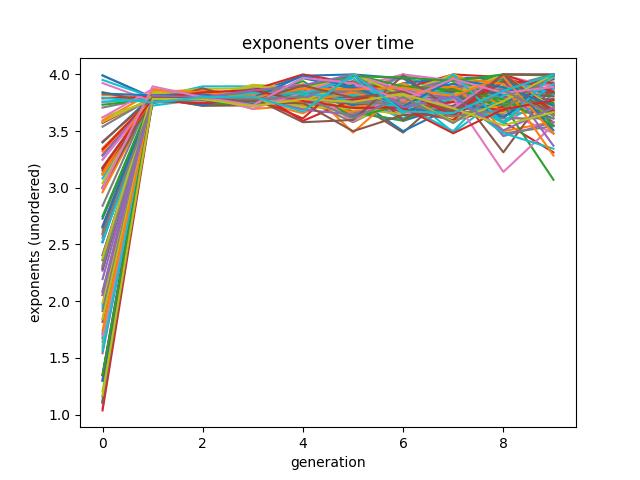
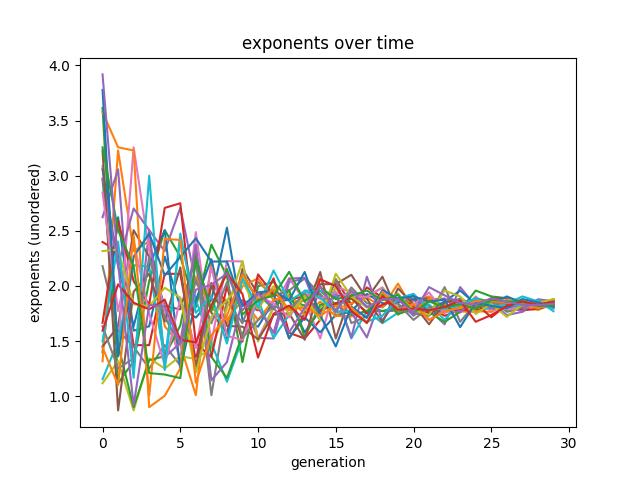
ran genetic exponent experiment for 30 generations

diff --git a/poker_game/genetic_expector_training.py b/poker_game/genetic_expector_training.py
@@ -2,28 +2,44 @@ from table import table
 from players import expector
 import matplotlib.pyplot as plt
 import numpy as np
+import time
+import datetime
+import os
 
 num_generations = 10
-pop_per_generation = 100
-moneys_per_player = 10
+pop_per_generation = 25
+moneys_per_player = 50
 exponent_range = (1,4)
 
 if __name__ == "__main__":
     retable = table([],[],starting_money=moneys_per_player, say=print)
+    
+    if os.path.exists("exponent_data.npy"):
+        try:
+            exponents_over_time = [dat for dat in np.load("exponent_data.npy")]
+        except:
+            exponents_over_time = []
+    else:
+        exponents_over_time = []
 
-    exponents = np.random.uniform(exponent_range[0], exponent_range[1], size=pop_per_generation)
+    if len(exponents_over_time) > 0:
+        last_pop_exps = exponents_over_time[-1]
+        last_pop_exps_mean = np.mean(last_pop_exps)
+        last_pop_exps_std = np.std(last_pop_exps)
+        exponents = np.random.normal(loc=last_pop_exps_mean, scale=last_pop_exps_std,size=pop_per_generation)
+    else:
+        exponents = np.random.uniform(exponent_range[0], exponent_range[1], size=pop_per_generation)
+    exponents_over_time.append(exponents)
     population = []
     auths = []
     for exp in exponents:
         new_auth = np.random.randint(1000000)
         new_expector = expector.constructor(f"x{exp:.3f}", auth = new_auth)
-        expector.EXPONENT = exp
+        new_expector.EXPONENT = exp
         population.append(new_expector)
         auths.append(new_auth)
 
-    
-    exponents_over_time = [exponents]
-    
+    start = time.time()
     for gen in range(num_generations):
         winners = []
         winning_auths = []
@@ -46,8 +62,9 @@ if __name__ == "__main__":
             retable.auths = [x1_auth,x2_auth]
 
             if len(ordering) == 1:
-                retable.players.append(population[ordering.pop()])
-                retable.auths.append(auths[ordering.pop()])
+                idx = ordering.pop()
+                retable.players.append(population[idx])
+                retable.auths.append(auths[idx])
             for player in retable.players:
                 player.money = moneys_per_player
             retable.play_game()
@@ -64,7 +81,7 @@ if __name__ == "__main__":
 
         num_to_repopulate = pop_per_generation - len(population)
 
-        for exp in np.random.normal(loc=winning_exps_mean, scale=winning_exp_std+np.random.random()/10, size=num_to_repopulate):
+        for exp in np.random.normal(loc=winning_exps_mean, scale=winning_exp_std, size=num_to_repopulate):
             new_auth = np.random.randint(1000000)
             new_expector = expector(f"x{exp:.3f}", new_auth)
             new_expector.EXPONENT = exp
@@ -73,12 +90,16 @@ if __name__ == "__main__":
         
         exponents_over_time.append(np.array([p.EXPONENT for p in population]))
         np.save("exponent_data", np.array(exponents_over_time))
-    exponents_over_time = np.array(exponents_over_time)
+    exponents_over_time = np.load("exponent_data.npy")
     [plt.plot(exponents_over_time[:,i]) for i in range(exponents_over_time.shape[1])]
     plt.title("exponents over time")
     plt.xlabel("generation")
     plt.ylabel("exponents (unordered)")
     plt.savefig("exponents_over_time.jpg")
+    print(time.time() - start)
+    print("computation time:")
+    print(datetime.timedelta(seconds = time.time() - start))
+
 
 
 

diff --git a/poker_game/players.py b/poker_game/players.py
@@ -352,7 +352,7 @@ class expector(player):
             max_expected_winnings = expected_winnings
             if expected_winnings < 0:
                 # we fold
-                choice = 0 
+                choice = 0
         print(f"probs: {probs}")
         print(f"max expected winnings: {max_expected_winnings}")
 
